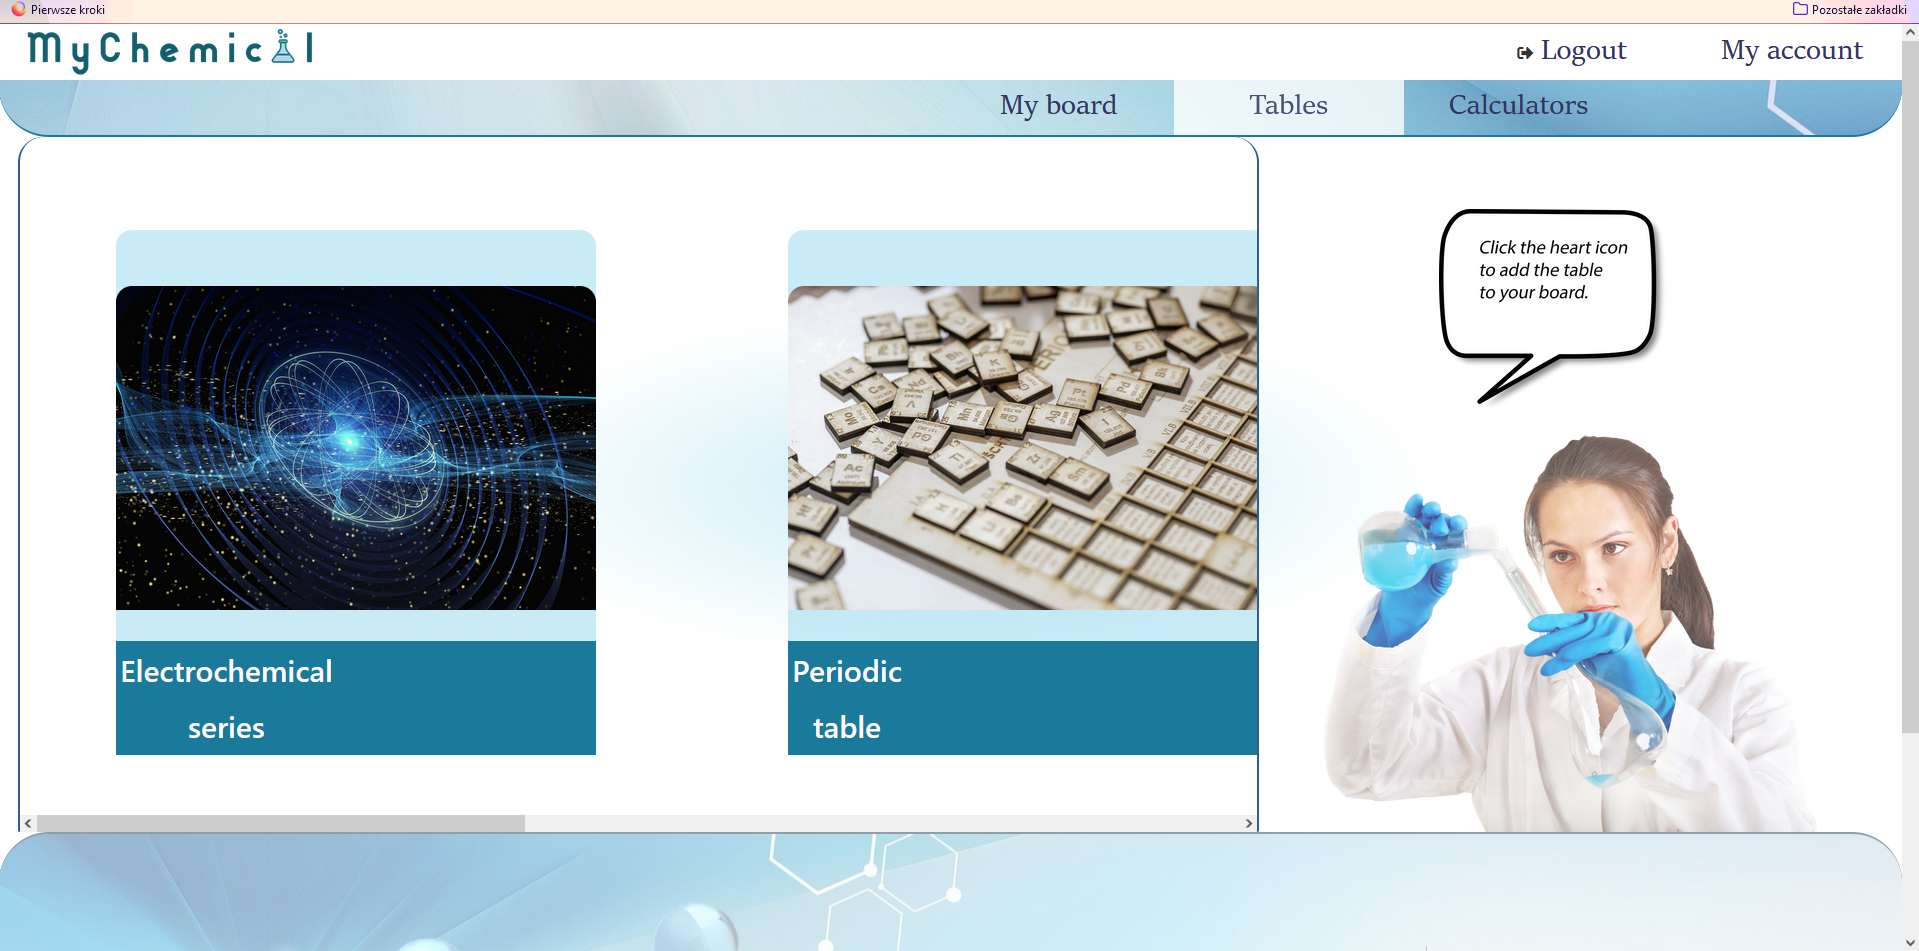
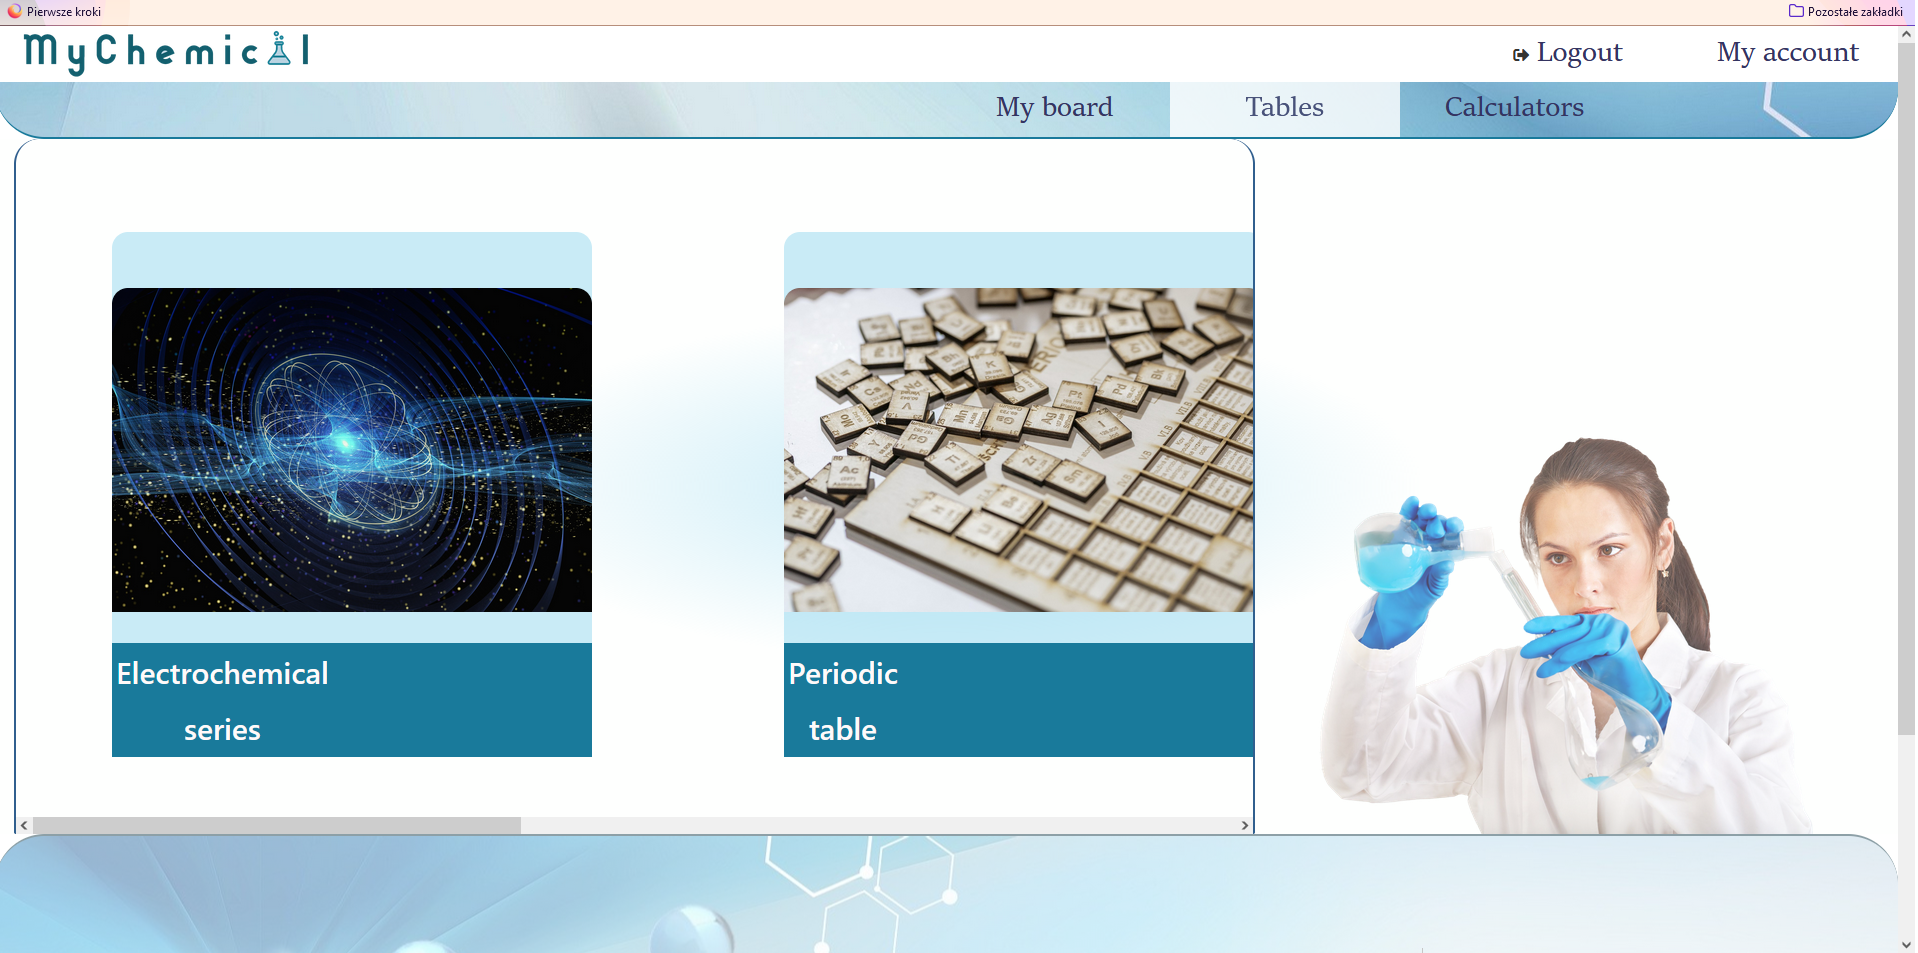
screeny-poprawki

diff --git a/public/css/style_po_zalogowaniu.css b/public/css/style_po_zalogowaniu.css
@@ -30,6 +30,7 @@
     height: inherit;
     margin:0;
     text-align: center;
+    cursor: pointer;
 }
 
 
@@ -48,6 +49,8 @@
     margin:0;
     text-align: center;
     opacity: 1;
+
+    cursor: pointer;
 }
 
 

diff --git a/public/css/style.css b/public/css/style.css
@@ -18,6 +18,7 @@ button{
     text-align: center;
     font: normal normal bold 40px/66px Yu Gothic UI;
     color: #FFFAFA;
+    cursor: pointer;
 }
 
 

diff --git a/public/views/tables.php b/public/views/tables.php
@@ -19,7 +19,15 @@ else{
 
 <body>
 
-<img class="dymek" src="/public/img/dymek1.png"></img>
+
+<?php
+if($_SESSION['account_type']==1){
+
+    ?>
+    <img class="dymek" src="/public/img/dymek1.png"></img>
+<?php }
+?>
+
 
     <div class="top_container">
         <div class="pasek_menu_two">

diff --git a/public/views/calculators.php b/public/views/calculators.php
@@ -20,7 +20,14 @@ else{
 
 <body>
 
-<img class="dymek" src="/public/img/dymek2.png"></img>
+<?php
+    if($_SESSION['account_type']==1){
+
+    ?>
+        <img class="dymek" src="/public/img/dymek2.png"></img>
+   <?php }
+?>
+
 
 
 <div class="top_container">
